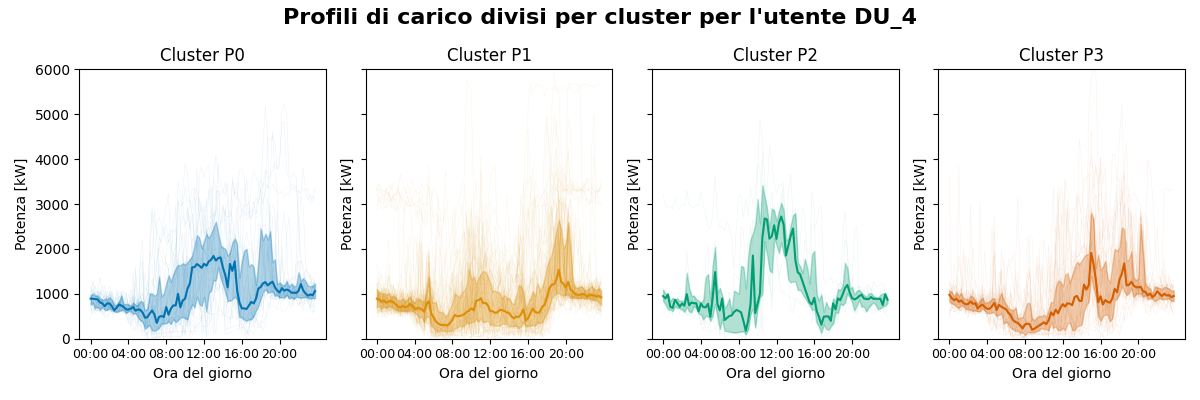
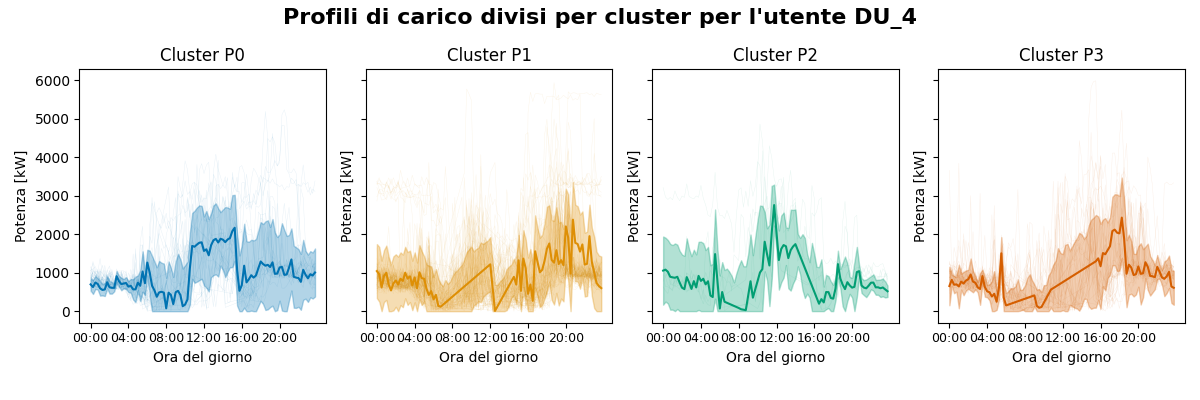
feat(benchmarking): update clustering results

diff --git a/src/benchmarking/viz.py b/src/benchmarking/viz.py
@@ -3,6 +3,7 @@ import pandas as pd
 import os
 from settings import PROJECT_ROOT
 from src.building import Building, load_anguillara, load_garda
+from src.benchmarking.utils import find_medioid_and_quartiles
 import seaborn as sns
 
 
@@ -53,6 +54,14 @@ def plot_load_profiles_user(user_id: str, aggregate: str):
     cluster_labels = cluster.loc[cluster["user_type"] == building.building_info["user_type"], "cluster"].unique()
     cluster_labels.sort()
 
+    data_cluster_pivot = data_cluster.pivot(index=["date", "cluster"], columns="hour", values="Load").reset_index().drop(columns=["date"])
+
+    centroids = data_cluster.groupby(["hour", "cluster"])["Load"].mean().reset_index()
+    centroids_pivot = centroids.pivot(index="cluster", columns="hour", values="Load")
+
+    medioid, q1, q3 = find_medioid_and_quartiles(data_cluster_pivot, centroids_pivot)
+    medioid = medioid.reset_index(names=["cluster"]).melt(id_vars="cluster", var_name="hour", value_name="Load")
+
     fig, ax = plt.subplots(figsize=(12, 4), nrows=1, ncols=cluster_labels.size, sharey=True)
 
     palette = sns.color_palette("colorblind", cluster_labels.size)
@@ -70,27 +79,33 @@ def plot_load_profiles_user(user_id: str, aggregate: str):
         ax[i].set_xticks(range(0, 96, 16))
         ax[i].tick_params(axis='x', labelsize=9)
 
-    centroid_load_profiles = data_cluster[["hour", "Load", "cluster"]].groupby(["hour", "cluster"]).median()
-    centroid_load_profiles.reset_index(inplace=True)
-    q1 = data_cluster[["hour", "Load", "cluster"]].groupby(["hour", "cluster"]).quantile(0.25)
-    q1.reset_index(inplace=True)
-    q3 = data_cluster[["hour", "Load", "cluster"]].groupby(["hour", "cluster"]).quantile(0.75)
-    q3.reset_index(inplace=True)
+    # Calculate upper_bound and lower_bound as 1 std on each hour
+    total_load_profiles = data_cluster[["hour", "Load", "cluster"]]
+    total_load_profiles_std = total_load_profiles.groupby(["hour", "cluster"]).std().reset_index()
+
+    upper_bound = medioid.copy()
+    upper_bound["Load"] = (upper_bound["Load"] + total_load_profiles_std["Load"]).clip()
+
+    lower_bound = medioid.copy()
+    lower_bound["Load"] = (lower_bound["Load"] - total_load_profiles_std["Load"])
+    # Clip
+    lower_bound = lower_bound.merge(total_load_profiles.groupby("cluster")["Load"].min().reset_index(), on="cluster")
+    lower_bound["Load"] = lower_bound[["Load_x", "Load_y"]].max(axis=1)
+    lower_bound.drop(columns=["Load_x", "Load_y"], inplace=True)
 
     for j, cluster_label in enumerate(cluster_labels):
-        cluster_data = centroid_load_profiles[centroid_load_profiles["cluster"] == cluster_label]
-        cluster_q1 = q1[q1["cluster"] == cluster_label]
-        cluster_q3 = q3[q3["cluster"] == cluster_label]
+        cluster_data = medioid[medioid["cluster"] == cluster_label]
+        cluster_lower_bound = lower_bound[lower_bound["cluster"] == cluster_label]
+        cluster_upper_bound = upper_bound[upper_bound["cluster"] == cluster_label]
 
         color = palette[j]
-        ax[j].plot(cluster_data.set_index("hour")["Load"], color=color)
-        ax[j].fill_between(cluster_q1["hour"], cluster_q1.set_index("hour")["Load"],
-                           cluster_q3.set_index("hour")["Load"], color=color, alpha=0.3)
+        ax[j].plot(cluster_data.set_index("hour")["Load"], color=color, label="Centroid")
+        ax[j].fill_between(cluster_lower_bound["hour"], cluster_lower_bound.set_index("hour")["Load"],
+                           cluster_upper_bound.set_index("hour")["Load"], color=color, alpha=0.3)
 
-    plt.tight_layout(rect=(0, 0.01, 1, 0.92), h_pad=4)
-    plt.ylim(0, building.building_info["rated_power"] * 1000)
+    plt.tight_layout(rect=(0, 0.05, 1, 0.92), h_pad=4)
     plt.suptitle(f"Profili di carico divisi per cluster per l'utente {building.building_info['name']}",
-                 fontsize=16, fontweight='bold')
+                    fontsize=16, fontweight='bold')
     plt.savefig(os.path.join(PROJECT_ROOT, "figures", "clustering", f"load_profiles_{user_id}.png"))
 
 
@@ -283,3 +298,6 @@ def plot_cluster_percentage(aggregate: str):
 
 def plot_centroids(aggregate: str):
     pass
+
+
+plot_load_profiles_user("7436df46-294b-4c97-bd1b-8aaa3aed97c5", "anguillara")

diff --git a/src/benchmarking/assign.py b/src/benchmarking/assign.py
@@ -1,7 +1,7 @@
 import pandas as pd
 from src.building import load_anguillara, load_garda
 from scipy.spatial.distance import euclidean
-from src.benchmarking.utils import find_medoid_and_quartiles
+from src.benchmarking.utils import find_medioid_and_quartiles
 
 
 def calculate_medioids(aggregate: str):
@@ -55,7 +55,7 @@ def calculate_medioids(aggregate: str):
     df_consumer_pivot = df_consumer_pivot.drop(columns=["building_name", "date"])
 
     # Find medoid, Q1, and Q3 for consumers
-    medoid_consumer, q1_consumer, q3_consumer = find_medoid_and_quartiles(df_consumer_pivot, centroids_consumer_pivot)
+    medioid_consumer, q1_consumer, q3_consumer = find_medioid_and_quartiles(df_consumer_pivot, centroids_consumer_pivot)
 
     # For prosumers
     centroids_prosumer = df_prosumer.groupby(["cluster", "hour"])["Load_norm"].mean().reset_index()
@@ -67,14 +67,14 @@ def calculate_medioids(aggregate: str):
     df_prosumer_pivot = df_prosumer_pivot.drop(columns=["building_name", "date"])
 
     # Find medoid, Q1, and Q3 for prosumers
-    medoid_prosumer, q1_prosumer, q3_prosumer = find_medoid_and_quartiles(df_prosumer_pivot, centroids_prosumer_pivot)
+    medioid_prosumer, q1_prosumer, q3_prosumer = find_medioid_and_quartiles(df_prosumer_pivot, centroids_prosumer_pivot)
 
     # Save results to CSV
-    medoid_consumer.to_csv(f"../../results/medioid_{aggregate}_consumer.csv", index=True)
+    medioid_consumer.to_csv(f"../../results/medioid_{aggregate}_consumer.csv", index=True)
     q1_consumer.to_csv(f"../../results/q1_{aggregate}_consumer.csv", index=True)
     q3_consumer.to_csv(f"../../results/q3_{aggregate}_consumer.csv", index=True)
 
-    medoid_prosumer.to_csv(f"../../results/medioid_{aggregate}_prosumer.csv", index=True)
+    medioid_prosumer.to_csv(f"../../results/medioid_{aggregate}_prosumer.csv", index=True)
     q1_prosumer.to_csv(f"../../results/q1_{aggregate}_prosumer.csv", index=True)
     q3_prosumer.to_csv(f"../../results/q3_{aggregate}_prosumer.csv", index=True)
 

diff --git a/src/benchmarking/utils.py b/src/benchmarking/utils.py
@@ -36,7 +36,7 @@ def calculate_shape_factor(data: pd.DataFrame) -> pd.DataFrame:
     return df_sf
 
 
-def find_medoid_and_quartiles(df_cluster, centroids_pivot):
+def find_medioid_and_quartiles(df_cluster, centroids_pivot):
     """
     Calcola i medioidi, il primo quartile (Q1) e il terzo quartile (Q3) dei profili in base alla distanza con il centroide del cluster.
     :param df_cluster: dataframe con i profili dei consumatori e prosumer
@@ -59,9 +59,9 @@ def find_medoid_and_quartiles(df_cluster, centroids_pivot):
         # Sort the profiles by distance
         sorted_profiles = distances.sort_values()
 
-        # Find the medoid (the profile with the minimum distance)
-        medoid_index = sorted_profiles.idxmin()
-        nearest_profiles[cluster_label] = df_cluster.loc[medoid_index]
+        # Find the medioid (the profile with the minimum distance)
+        medioid_index = sorted_profiles.idxmin()
+        nearest_profiles[cluster_label] = df_cluster.loc[medioid_index]
 
         # Find Q1 and Q3 based on sorted distances
         q1_index = sorted_profiles.index[int(len(sorted_profiles) * 0.25)]
@@ -70,12 +70,12 @@ def find_medoid_and_quartiles(df_cluster, centroids_pivot):
         q1_profiles[cluster_label] = df_cluster.loc[q1_index]
         q3_profiles[cluster_label] = df_cluster.loc[q3_index]
 
-    # Return medoid, Q1, and Q3 as DataFrames
-    medoid_df = pd.DataFrame(nearest_profiles).T.drop(columns=["cluster"]).astype(float)
+    # Return medioid, Q1, and Q3 as DataFrames
+    medioid_df = pd.DataFrame(nearest_profiles).T.drop(columns=["cluster"]).astype(float)
     q1_df = pd.DataFrame(q1_profiles).T.drop(columns=["cluster"]).astype(float)
     q3_df = pd.DataFrame(q3_profiles).T.drop(columns=["cluster"]).astype(float)
 
-    return medoid_df, q1_df, q3_df
+    return medioid_df, q1_df, q3_df
 
 def create_dataset_classification():
     pass

diff --git a/src/benchmarking/main.py b/src/benchmarking/main.py
@@ -14,7 +14,7 @@ def run_benchmarking(aggregate: str):
     with open(f"../../data/metadata/{aggregate}.json", "r") as f:
         building_list = json.load(f)
 
-    run_clustering(aggregate)
+    # run_clustering(aggregate)
     calculate_medioids(aggregate)
     assign_cluster(aggregate)
     plot_load_profiles_aggregate(aggregate)
